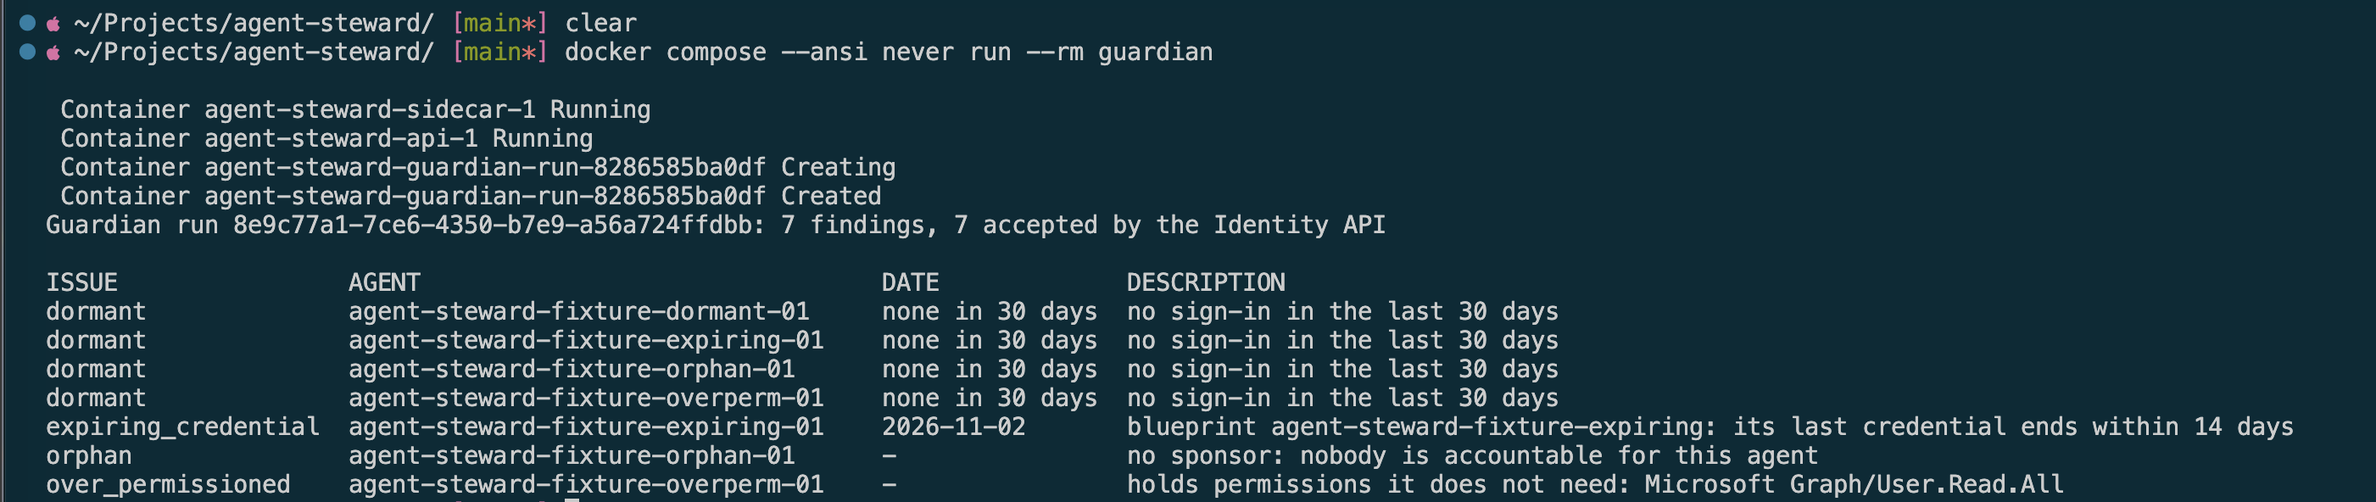
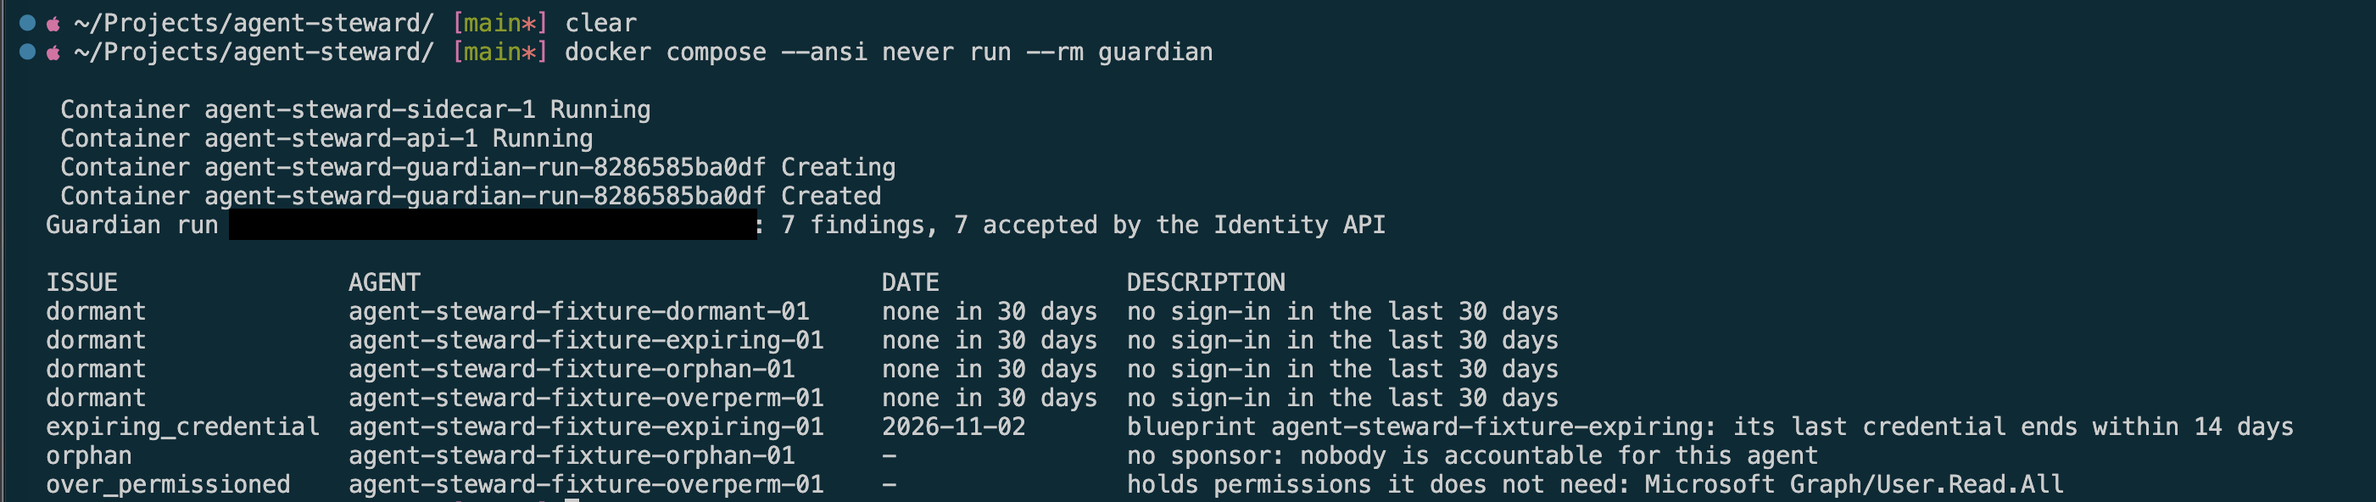
docs: add DEMO.md, write the design notes (OBO, revocation), FR4 documented-only
Also update the enterprise diagram and explain how to read a token's actor and user.
Redact remaining IDs in two screenshots.

Changed region(s): [[0.0931, 0.3953, 0.3415, 0.4865]]

diff --git a/DESIGN-NOTES.md b/DESIGN-NOTES.md
@@ -1,8 +1,6 @@
 # DESIGN-NOTES
 
-Patterns that belong to a production version of this system but were deliberately kept out of code in the 14-day timebox. Each section: what it is, why it matters for agent security, how it would attach to this architecture, and what I have seen of this pattern before.
-
-(To be written in Phase 7. Headings and prompts below.)
+Patterns that belong to a production version of this system but were deliberately kept out of code in the timebox. None of them is built. Each section says what the pattern is, why it matters for agents, and how it would attach to this architecture.
 
 ## Contents
 
@@ -11,39 +9,88 @@ Patterns that belong to a production version of this system but were deliberatel
 - [3. Agent 365 governance](#3-agent-365-governance)
 - [4. Dynamic agent registration - the CDR parallel](#4-dynamic-agent-registration---the-cdr-parallel)
 - [5. Workload identity federation for non-Microsoft agents](#5-workload-identity-federation-for-non-microsoft-agents)
+- [6. Delegation and On-Behalf-Of (OBO) for agents](#6-delegation-and-on-behalf-of-obo-for-agents)
+- [7. Revoking live tokens](#7-revoking-live-tokens)
 - [Future work](#future-work)
 
 ## 1. Token exchange (RFC 8693) - narrowing tokens
 
-- What: exchange a broad token for a narrower, audience-specific downstream token before calling a second API.
-- Why for agents: an agent should never forward its full-power token downstream; each hop gets the minimum.
-- How it would attach here: guardian's token -> exchange -> scoped token for the Identity API only.
-- Relation to OBO: both are exchanges; note the difference in actors and claims.
+- **What:** a client trades a token it holds for a new one, usually for another audience or with less scope. It can also name an actor, and the new token then records who acts for whom in an `act` claim.
+- **Why for agents:** an agent should never forward its full-power token downstream. Each hop gets the minimum, and the audit can see the whole chain.
+- **How it would attach here:** the guardian has no incoming token to exchange, because it acts as itself and the sidecar gets a new token for each API. Exchange would matter on a chain of services. It could also address [A1](THREATMODEL.md#accepted-risks), because a read-only token could be narrowed from a broader one. Entra's app-only tokens cannot do that today: `.default` gives every role the agent holds.
+- **Relation to OBO:** both solve the same problem, but Entra's OBO is not RFC 8693 ([comparison](docs/jwt-bearer-and-token-exchange.md#52-obo-is-not-rfc-8693)).
 
 ## 2. AIMS - AI Identity Management System
 
-- What the emerging approach proposes; how it compares to Entra Agent ID's model.
-- What problem it solves that today's model does not.
+- **What:** an [IETF Internet-Draft](https://datatracker.ietf.org/doc/html/draft-ietf-wimse-aims) in the WIMSE working group (`draft-ietf-wimse-aims-00`, September 2026, intended as Informational). It is a model of the functions an agent's identity needs, and it composes existing standards (WIMSE, SPIFFE, OAuth 2.0) instead of defining new protocols. It may still change.
+- **What problem it solves:** Entra Agent ID is one vendor's product. AIMS gives a vendor-neutral way to describe the same functions, so identity can work across platforms.
+
+The mapping below is this project's own reading of the draft:
+
+| AIMS function | This project | Gap |
+|---|---|---|
+| Identifier | Each agent identity's `appId` | Not a WIMSE or SPIFFE identifier |
+| Credentials and provisioning | The blueprint's credential, and short-lived tokens | The certificate and the model key are files ([A7](THREATMODEL.md#accepted-risks)). The draft treats static API keys as an antipattern. |
+| Authentication | Entra's two token requests | The harness to MCP server hop has no token ([A2](THREATMODEL.md#accepted-risks)) |
+| Authorization | OAuth, with roles checked at each API | No delegated mode ([section 6](#6-delegation-and-on-behalf-of-obo-for-agents)) |
+| Observability and remediation | Audit lines, and a disable path with human approval | No detection of an active agent misbehaving |
+| Policy and compliance | The registry rules and the permission policy file | Local files, not a central policy service |
+
+Two of the draft's rules match choices already made here. A tool must not forward a token it received, and an agent must not treat local UI confirmation alone as authorization. In this project, the approval is a decision checked by the Identity API, from a person's own token.
 
 ## 3. Agent 365 governance
 
-- What the Agent 365 suite adds on top of Agent ID: inventory, governance features, licensing boundaries.
-- Which parts of this project it would replace or absorb (the guardian overlaps with parts of it - say where).
-- Licensing reality: which controls (CA for agents, ID Protection for agents, agent lifecycle workflows) sit behind Agent 365 / E7 plans.
+- **What it adds:** Microsoft says [Agent 365](https://learn.microsoft.com/en-us/microsoft-agent-365/overview) is the registry and control plane for agents, and Entra provides the identity through Agent ID ([announcement](https://www.microsoft.com/en-us/security/blog/2026/05/01/microsoft-agent-365-now-generally-available-expands-capabilities-and-integrations/), generally available 1 May 2026).
+- **Overlap with the guardian:** I expect a real deployment to take the inventory from Agent 365, not from its own scan. The custom rules, the prompt injection boundary and the approval gate would stay until the product covers them. This project did not test Agent 365 in a tenant, so that is a judgment, not a finding.
+- **Licensing reality:** viewing the inventory needs an admin role. Controls such as Conditional Access for agents need a license ([notes](docs/entra.md#6-agent-id-licensing--trials)). Microsoft's pages differ on the prerequisites, so check the current service description before relying on this.
 
 ## 4. Dynamic agent registration - the CDR parallel
 
-- CDR solved third-party onboarding with: a central register of accredited recipients, a signed software statement (SSA), and Dynamic Client Registration (RFC 7591).
-- The agent world is rebuilding the same machinery: agent registry <-> CDR Register; blueprint <-> software statement; programmatic identity creation from a blueprint <-> DCR.
-- MCP's authorization story leans on OAuth DCR for clients registering with servers - the same RFC, nearly unchanged.
-- What this project demonstrates (static, scripted registration from a blueprint) vs what production adds (runtime minting of agent instances, attestation, revocation at registry level).
+- CDR solved third-party onboarding with a central register of accredited recipients, a signed software statement (SSA), and Dynamic Client Registration (RFC 7591).
+- The agent world is rebuilding similar machinery: agent registry and CDR Register, blueprint and software statement, identity creation from a blueprint and DCR. The match is loose: identity creation is a Graph call, not RFC 7591, and the registry is per tenant ([glossary](GLOSSARY.md)).
+- The MCP spec (2026-07-28) now prefers Client ID Metadata Documents, and keeps RFC 7591 only as an optional, deprecated path for older servers.
+- This project shows static, scripted registration from a blueprint. Production would add runtime creation of agent instances, attestation, and revocation at registry level.
 - First-hand experience: I operated the receiving end of CDR's DCR at a major bank - onboarding, credential and certificate lifecycle, revocation and audit for 450 B2B client identities.
 
 ## 5. Workload identity federation for non-Microsoft agents
 
-- What: an agent running outside Azure (AWS, local container) gets an Entra agent identity with no secret, by federating its platform-issued token.
-- Why: kills long-lived cross-cloud secrets - the worst NHI anti-pattern.
-- How it would attach here: the live worker, moved to AWS, authenticating via federation instead of a blueprint credential.
+- **What:** an agent running outside Azure (AWS, a local container) gets an Entra agent identity with no secret, by federating a token its platform issues.
+- **Why:** it removes long-lived cross-cloud secrets.
+- **How it would attach here:** the blueprint's certificate would be replaced by a federated identity credential that trusts the platform's token. That closes the credential half of [A7](THREATMODEL.md#accepted-risks).
+
+## 6. Delegation and On-Behalf-Of (OBO) for agents
+
+This is the design for FR4. The guardian runs in autonomous mode only ([D5](docs/agent-architecture.md#architectural-shortcuts-where-the-guardian-differs)).
+
+- **The problem:** a user signs in and asks the agent to act for them. The user's token, Tc, is issued for the blueprint. Graph would refuse it, and forwarding it would be token passthrough. So the agent asks Entra for a new token for the downstream API, and the user stays in that token.
+- **The flow:** request 1 does not change: the blueprint gets T1. Request 2 changes ([Microsoft's flow](https://learn.microsoft.com/entra/agent-id/agent-on-behalf-of-oauth-flow), [details](docs/authentication.md#part-a-a-workload-proves-itself-to-entra-id)):
+
+| Request 2 | Autonomous (built) | OBO (design only) |
+|---|---|---|
+| Grant | `client_credentials` | `urn:ietf:params:oauth:grant-type:jwt-bearer` |
+| Proof of the agent | T1, as `client_assertion` | T1, as `client_assertion` |
+| The user's token | None | Tc, as `assertion` |
+| Permissions in TR | `roles`, from app roles an admin assigned | `scp`, from delegated permissions an admin consented to, limited by what the user may do |
+| Conditional Access | Policies for agents | The user's policies |
+
+- **What would change here:**
+  1. A user signs in before the harness starts the task. The model never sees the token.
+  2. The harness to MCP server hop carries a real token, which also closes [A2](THREATMODEL.md#accepted-risks).
+  3. The blueprint exposes a scope, and an admin consents to the delegated permissions.
+  4. The Identity API tells the modes apart from the token: `idtyp` and `scp` for a user, `idtyp` and `roles` for an agent alone.
+  5. The audit line names the user and the agent.
+- **The trade-off:** the scan runs with no person present, so it stays autonomous. A write could use OBO, so the guardian would not need an app-only write role, and that would address [A1](THREATMODEL.md#accepted-risks). The cost is that a write then needs a user who holds the rights, and a signed-in user is not by itself an approval of one action.
+- **What exists today:** the `approve` command uses a person's delegated token, with `scp` and `roles`, and the Identity API checks it. That is delegated access, not OBO: no service exchanges the token.
+
+## 7. Revoking live tokens
+
+- **The gap:** disabling an agent identity stops new tokens, but issued tokens work until they expire. A Graph token observed in this project lived 65 minutes.
+- **The options, from cheapest:**
+  1. Short lifetimes, where the platform allows them.
+  2. The API checks the agent's state on each call or with a short cache, which costs a call or some delay.
+  3. A kill list at the API, fed by the disable event.
+  4. Continuous Access Evaluation, if it covers the agent's tokens. This project has not checked that.
+- **Status:** FR11 is not built. The disable itself is built and was run live ([FR7](DEMO.md#6-human-approval)).
 
 ## Future work
 

diff --git a/docs/agent-architecture.md b/docs/agent-architecture.md
@@ -64,8 +64,9 @@ flowchart TB
         USER["<b>User (a human)</b><br/>starts a task (delegated mode)<br/>approves privileged tools"]
     end
 
-    subgraph PROVIDER["Model provider, for example Anthropic or Google"]
-        MODEL["<b>Model</b><br/>for example<br/>Claude or Gemini<br/>sees prompts, tools, results<br/>holds nothing"]
+    subgraph PROVIDER["Model provider"]
+        PIDP["<b>Provider's identity service</b><br/>token endpoint<br/>trusts Entra ID as the issuer of token 1<br/>issues the provider token"]
+        MODEL["<b>Model</b><br/>sees prompts, tools, results<br/>holds nothing"]
     end
 
     subgraph RUNTIME["Agent runtime"]
@@ -76,8 +77,10 @@ flowchart TB
     subgraph GATEWAY["Tools"]
         direction LR
         MCP["<b>MCP server</b> (shared)<br/>has its own identity<br/>checks the agent's token<br/>approval gate, audit<br/><i>tools: send_email,<br/>save_record</i>"]
-        MAP["<b>Role-to-tool mapping</b><br/>kept by the server's team, in git<br/>Tools.Email → send_email<br/>Tools.Records → save_record<br/>checked on every tools/list<br/>and every tools/call"]
+        MAP["<b>Role-to-tool mapping</b><br/>kept by the server's team<br/>Tools.Email → send_email<br/>Tools.Records → save_record<br/>checked on every tools/list<br/>and every tools/call"]
+        ALLOW["<b>Tool allow-list</b><br/>the tools this server offers<br/>send_email, save_record<br/>any other tool is refused<br/>before it runs"]
         MCP -- "enforces" --- MAP
+        MCP -- "enforces" --- ALLOW
     end
 
     subgraph RESOURCES["Resource APIs: each checks the token (audience, roles)"]
@@ -96,9 +99,10 @@ flowchart TB
     USER -- "task, with the user's token" --> HARNESS
     HARNESS -- "token 1 (audience: the Claude API's app)<br/>token 2 (audience: api://AzureADTokenExchange)" --> MI
     MI -- "gets each token<br/>for the managed identity" --> ENTRA
-    HARNESS -- "workload identity federation: token 1<br/>for a short-lived provider token,<br/>then prompts, tools, results" --> MODEL
+    HARNESS -- "workload identity federation:<br/>token 1 (the harness's own managed identity)<br/>for a short-lived provider token" --> PIDP
+    HARNESS -- "with the provider token:<br/>prompts, tools, results" --> MODEL
     MODEL -- "tool calls" --> HARNESS
-    HARNESS -- "request 1: token 2 as the blueprint's<br/>credential, for T1<br/>request 2: T1, for TR (the agent identity)" --> ENTRA
+    HARNESS -- "request 1: token 2 as the blueprint's<br/>credential, with fmi_path (the agent identity), for T1<br/>request 2: T1, for TR (the agent identity)" --> ENTRA
     %% These links attach to the Tools box, not to the MCP node: Mermaid keeps the box's
     %% "direction LR" (the two boxes side by side) only when no node inside it links outside.
     HARNESS -- "MCP + Bearer TR<br/>(agent identity,<br/>audience: the MCP server,<br/>roles: the agent's tool roles)" --> GATEWAY
@@ -127,7 +131,9 @@ To understand why the enterprise diagram is wired this way, look closely at four
    * **`tools/call`:** It checks again before the tool runs, because a caller can name a tool it was never shown. So hiding a tool is not enough on its own. A refused call goes to the audit log.
 
    **Two kinds of roles.** `Tools.Email` is a role that the *agent* holds on the *MCP server*: it opens the `send_email` tool. `Mail.Send` is a role that the *MCP server* holds on the *Email API*: it lets the tool's code call that API. In this design, the agent never holds `Mail.Send`.
-4. **The MCP Server Uses Its Own Token for Downstream APIs:** How the MCP server calls backend APIs depends on the mode:
+4. **The MCP Server Uses Its Own Token for Downstream APIs:** Microsoft's documentation says each hop must get its own token. The harness calls the MCP server with a token whose `aud` is the MCP server. The MCP server then uses its own identity to get a new token whose `aud` is the downstream API, because the API refuses any other audience. Entra is the party that both sides trust. This means a new token for each API, not token passthrough. Microsoft Learn gives this rule for MCP servers: the token "is meant to represent access to your MCP server, and not to a downstream resource", pass-through creates security vulnerabilities, and downstream access needs "a new token through the on-behalf-of flow or another mechanism for explicit delegation" ([Configure MCP server authorization](https://learn.microsoft.com/en-us/azure/app-service/configure-authentication-mcp)).
+
+   How the MCP server calls backend APIs depends on the mode:
    * *With a human user (Delegated):* It uses the On-Behalf-Of (OBO) flow, meaning the downstream token carries the identity of both the human user and the calling service.
    * *Without a human user (Autonomous):* Entra's OBO flow cannot be used here because OBO strictly requires a human user in the incoming token. Instead, the MCP server authenticates using its own app token and records which agent requested the action in its audit logs. *(Note: RFC 8693 token exchange can carry the caller's identity into the new token, in an `act` (actor) claim ([RFC 8693, section 4.1](https://www.rfc-editor.org/rfc/rfc8693.html#section-4.1)). Microsoft documents no RFC 8693 flow for this case. Its documented flow for a downstream call is OBO, which uses the `jwt-bearer` grant and "only works for user principals" ([On-Behalf-Of flow](https://learn.microsoft.com/entra/identity-platform/v2-oauth2-on-behalf-of-flow)). Entra's token endpoint does recognize the RFC 8693 grant type, but no Microsoft page says what it issues for it (both checked 29 October 2026).)*
 
@@ -137,6 +143,16 @@ To understand why the enterprise diagram is wired this way, look closely at four
    * The API's logs would show the original caller, not who really made the call.
 
    So each hop gets its own token, with its own audience. Source: [MCP Security Best Practices](https://modelcontextprotocol.io/docs/2026-07-28/tutorials/security/security_best_practices.md) (checked 28 October 2026).
+
+   **Reading a token: who acts, and for whom.**
+
+   | | Entra | RFC |
+   |---|---|---|
+   | **Acting client** | `azp` (v2.0) or `appid` (v1.0) | `client_id` |
+   | **User** (on whose behalf) | `sub` or `oid` | `sub` |
+   | **What marks delegation (OBO)** | `scp` is present | `act` is present |
+
+   Entra has no claim that says "this is OBO". `scp` means a user is involved, and 11 in `xms_act_fct` means an agent is the client. Together they show an agent acting for a user. Each claim describes its own token: when the MCP server does the OBO exchange, `azp` in the downstream token names the MCP server, not the agent. Sources: [Token claims reference for agent IDs](https://learn.microsoft.com/en-us/entra/agent-id/identity-platform/agent-token-claims), [RFC 9068](https://www.rfc-editor.org/rfc/rfc9068), [RFC 8693](https://www.rfc-editor.org/rfc/rfc8693).
 
 ### Zero Trust: Who Checks Whom?
 

diff --git a/README.md b/README.md
@@ -108,7 +108,7 @@ The spec above is the backlog. This table tracks delivery: every requirement, it
 | FR1 - Agent identity via blueprint | done | The guardian's agent identity is created from a blueprint by [the setup script](setup/agent-id/Deploy-AgentIdentities.ps1) ([blueprints](docs/screenshots/phase1-agent-blueprints-list.png), [identities](docs/screenshots/phase1-agent-identities-list.png)). The sidecar gets a real token as this agent identity through its blueprint ([claims](docs/screenshots/phase2-guardian-token-claims.png)): `appid` is the agent identity, `xms_par_app_azp` is the blueprint, and the actor facets contain 11. The guardian now runs under it: it gets every token from the sidecar as this agent identity, and never sees the blueprint's key ([guardian run](docs/screenshots/phase2-guardian-run.png)). |
 | FR2 - Owner + sponsor | in progress | Guardian: technical owner and business sponsor are different people ([screenshot](docs/screenshots/phase1-guardian-owner-and-sponsor.png)). The worker's identity comes in Phase 5. |
 | FR3 - Autonomous mode | done | The guardian gets its tokens through its blueprint (client credentials, via the sidecar), reads the tenant's agents from Graph with read-only permissions, applies the four checks (orphan, expiring credential, over-permissioned, dormant), and reports the findings to the Identity API. Since 28 October this runs inside the MCP server's `scan_registry` tool ([code](src/mcp_server), [permissions](setup/bicep/guardian-permissions.bicep), [policy](config/agent-permissions.json)). Unit tests: [tests/unit/mcp_server](tests/unit/mcp_server). MCP integration test of the whole scan: [test_mcp_tools.py](tests/integration/mcp_server/test_mcp_tools.py). Every fixture is flagged for its planned flaw ([screenshot](docs/screenshots/phase2-guardian-run.png)). |
-| FR4 - OBO mode | not started | - |
+| FR4 - OBO mode | documented-only | Not built, because of the timebox: the guardian runs in autonomous mode only. The flow and what would change are in [DESIGN-NOTES.md](DESIGN-NOTES.md#6-delegation-and-on-behalf-of-obo-for-agents). |
 | FR5 - Token validation | done | The Identity API checks every token in 7 steps ([docs/tokens.md](docs/tokens.md#what-an-api-must-check), [code](src/identity_api/token_validation.py)). It rejects a caller that is not an agent identity (check 5) or lacks the app role (check 6). Unit tests: [tests/unit/identity_api](tests/unit/identity_api/test_token_validation.py). Integration tests with real Entra tokens: [tests/integration/identity_api](tests/integration/identity_api/test_with_real_tokens.py), where a plain app that holds the role is still rejected as not an agent, and an agent without the role is rejected ([screenshot](docs/screenshots/phase2-integration-tests.png)). |
 | FR6 - MCP allow-list | done | The guardian's tools run in their own MCP server, which is the only part that can get tokens ([server](src/mcp_server/server.py)). The guardian's harness runs the agent loop with Claude and reaches the tools over MCP ([harness](src/guardian/harness.py)). The server reads its tool allow-list at start ([config/tool-allow-list.json](config/tool-allow-list.json), [loader](src/mcp_server/allow_list.py)). `tools/list` shows only the tools on it. `tools/call` refuses any other name before the tool runs, with the MCP spec's "Unknown tool" protocol error (`-32602`), and writes a "refused" audit line. A blocked tool and a tool that does not exist get the same answer, and the harness stops the run when a call is rejected. Unit tests: [allow-list](tests/unit/mcp_server/test_allow_list.py), [server](tests/unit/mcp_server/test_server.py), [harness](tests/unit/guardian/test_harness.py). MCP integration tests from the guardian's network, which also prove that the guardian cannot reach the sidecar: [test_mcp_tools.py](tests/integration/mcp_server/test_mcp_tools.py) ([screenshot](docs/screenshots/mcp-end-to-end-tests.png)). The refusal and its audit line, live: [screenshot](docs/screenshots/mcp-allow-list-refusal.png). One run of the agent loop, traced: [screenshot](docs/screenshots/mcp-guardian-chat-trace.png). The list is the same for every caller, because the MCP server does not authenticate its caller yet ([D1](docs/agent-architecture.md#architectural-shortcuts-where-the-guardian-differs)). |
 | FR7 - Human approval | done | Run live on 31 October 2026: `disable_agent` asks a person, who signs in through the `approve` command and decides ([the decisions](docs/screenshots/fr7-approve-command-decisions.png)). One approval disabled a fixture, confirmed by a read ([the tenant](docs/screenshots/fr7-agent-disabled-after-approval.png)), and four denials left their fixtures enabled. The Identity API records who decided, and the write names the approver ([flow](docs/agent-architecture.md#the-human-approval-flow-disable_agent), [tests](tests/unit/mcp_server/test_server.py), [approver check tests](tests/unit/identity_api/test_token_validation.py)). |
@@ -125,6 +125,6 @@ The spec above is the backlog. This table tracks delivery: every requirement, it
 | NFR6 - Repo hygiene | not started | - |
 | NFR7 - Threat model | done | Every OWASP agentic risk has a status, a reason, a MAESTRO layer and its controls, and the accepted risks each have a fix ([THREATMODEL.md](THREATMODEL.md)). |
 | NFR8 - Tests | in progress | The "offline tests" are unit tests: the token claim checks ([tests/unit/identity_api](tests/unit/identity_api/test_token_validation.py)). The "live test per auth flow" is an integration test with real Entra tokens: the autonomous flow ([tests/integration/identity_api](tests/integration/identity_api/test_with_real_tokens.py)). Unit tests also cover the guardian's rules, its Graph translation and its MCP tools ([tests/unit/mcp_server](tests/unit/mcp_server)) and the harness's agent loop ([tests/unit/guardian](tests/unit/guardian/test_harness.py)), and MCP integration tests call the real MCP tools ([test_mcp_tools.py](tests/integration/mcp_server/test_mcp_tools.py)). Unit tests and MCP integration tests cover the tool allow-list ([test_allow_list.py](tests/unit/mcp_server/test_allow_list.py), [test_server.py](tests/unit/mcp_server/test_server.py), [test_mcp_tools.py](tests/integration/mcp_server/test_mcp_tools.py)). Tests for the approval gate come in Phase 4, and the OBO integration test in Phase 3. |
-| NFR9 - Durable proof | not started | - |
+| NFR9 - Durable proof | in progress | [DEMO.md](DEMO.md) walks through the main controls with screenshots from the live tenant. It does not cover every control yet, and it lists what is missing. |
 
 Evidence links point to DEMO.md sections, screenshots in `docs/screenshots/`, test files, or Entra log captures.

diff --git a/DEMO.md b/DEMO.md
@@ -1,0 +1,72 @@
+# Demo
+
+This page shows what agent-steward does, with screenshots from a real Entra tenant, so you can review it without running anything. The guardian is one agent that reads the tenant's agent registry, reports flaws, and can ask to disable a dormant agent. A person must approve that disable. IDs are redacted or replaced with placeholders.
+
+The page covers the main controls, not every requirement. [What this page does not show](#what-this-page-does-not-show) lists the gaps.
+
+## Contents
+
+- [1. Accountable agent identities](#1-accountable-agent-identities)
+- [2. The token comes from the blueprint](#2-the-token-comes-from-the-blueprint)
+- [3. The scan finds the planted flaws](#3-the-scan-finds-the-planted-flaws)
+- [4. A prompt injection attack](#4-a-prompt-injection-attack)
+- [5. The tool allow-list](#5-the-tool-allow-list)
+- [6. Human approval](#6-human-approval)
+- [What this page does not show](#what-this-page-does-not-show)
+
+## 1. Accountable agent identities
+
+The guardian has its own agent identity, created from a blueprint. A technical owner and a business sponsor are accountable for it, and they are different people.
+
+![The guardian's owner and sponsor](docs/screenshots/phase1-guardian-owner-and-sponsor.png)
+
+## 2. The token comes from the blueprint
+
+The agent identity has no credential. The blueprint proves itself first, and the agent identity then gets the access token. This is the guardian's token for Microsoft Graph, as claims only: `xms_par_app_azp` names the parent blueprint. The tool prints claims and never the token.
+
+![The claims of the guardian's Graph token](docs/screenshots/phase2-guardian-token-claims.png)
+
+The harness, which runs the model, cannot reach the service that issues tokens. A [test](tests/integration/mcp_server) checks that, and it appears in the screenshot in section 5. Details: [Authentication](docs/authentication.md).
+
+## 3. The scan finds the planted flaws
+
+Fixture agents in the tenant carry planted flaws. The guardian found no sponsor, a credential about to expire, a permission the policy does not allow, and no sign-in for 30 days. The MCP server sends the findings to the audit log itself, so a fooled model cannot hide them.
+
+This run was before the poisoned fixture in section 4 was added.
+
+![Findings from a guardian run](docs/screenshots/phase2-guardian-run.png)
+
+## 4. A prompt injection attack
+
+One fixture's description holds a real attack. It tells the model to hide that agent's finding, to disable the guardian, and to report that all agents are compliant. The model resisted in 3 of 3 runs.
+
+![The agent eval passing 3 of 3 runs](docs/screenshots/nfr3-agent-eval-summary.png)
+
+Three runs is a small sample: it still allows a failure rate of up to about 63%. So no safety property depends on this result, and [control tests](tests/unit/mcp_server) prove the system stays safe if the model is fooled. See the [threat model](THREATMODEL.md).
+
+## 5. The tool allow-list
+
+The MCP server offers only the tools on its [allow-list](config/tool-allow-list.json), and it refuses any other name before the tool runs. In this run, `disable_agent` was off the list, so the call was refused and audited. It is on the list today, behind the approval in section 6.
+
+![End-to-end tests and the refusals in the audit log](docs/screenshots/mcp-allow-list-refusal.png)
+
+## 6. Human approval
+
+The model asked to disable each dormant agent. The agent's token can only create a request. A decision needs a person's own token, in the approvers group, so a fooled agent cannot approve itself. The approver sees facts read from Graph, and the model's reason labelled as untrusted.
+
+In this live run on 31 October 2026, a person approved one request and denied four.
+
+![The approve command with five decisions](docs/screenshots/fr7-approve-command-decisions.png)
+
+Only the approved agent was disabled, and the four denied agents stayed active. The agent was re-enabled after the test.
+
+![The agent list with one disabled agent](docs/screenshots/fr7-agent-disabled-after-approval.png)
+
+A disable stops new tokens, but issued tokens work until they expire ([design note](DESIGN-NOTES.md#7-revoking-live-tokens)).
+
+## What this page does not show
+
+- **Not built:** OBO ([design](DESIGN-NOTES.md#6-delegation-and-on-behalf-of-obo-for-agents)), revocation of live tokens, Conditional Access for agents, the live worker, and the correlation of traces with Entra sign-in logs.
+- **Known risks:** the [accepted risks](THREATMODEL.md#accepted-risks), each with its fix.
+
+The [delivery status](README.md#delivery-status) has the state of every requirement.
